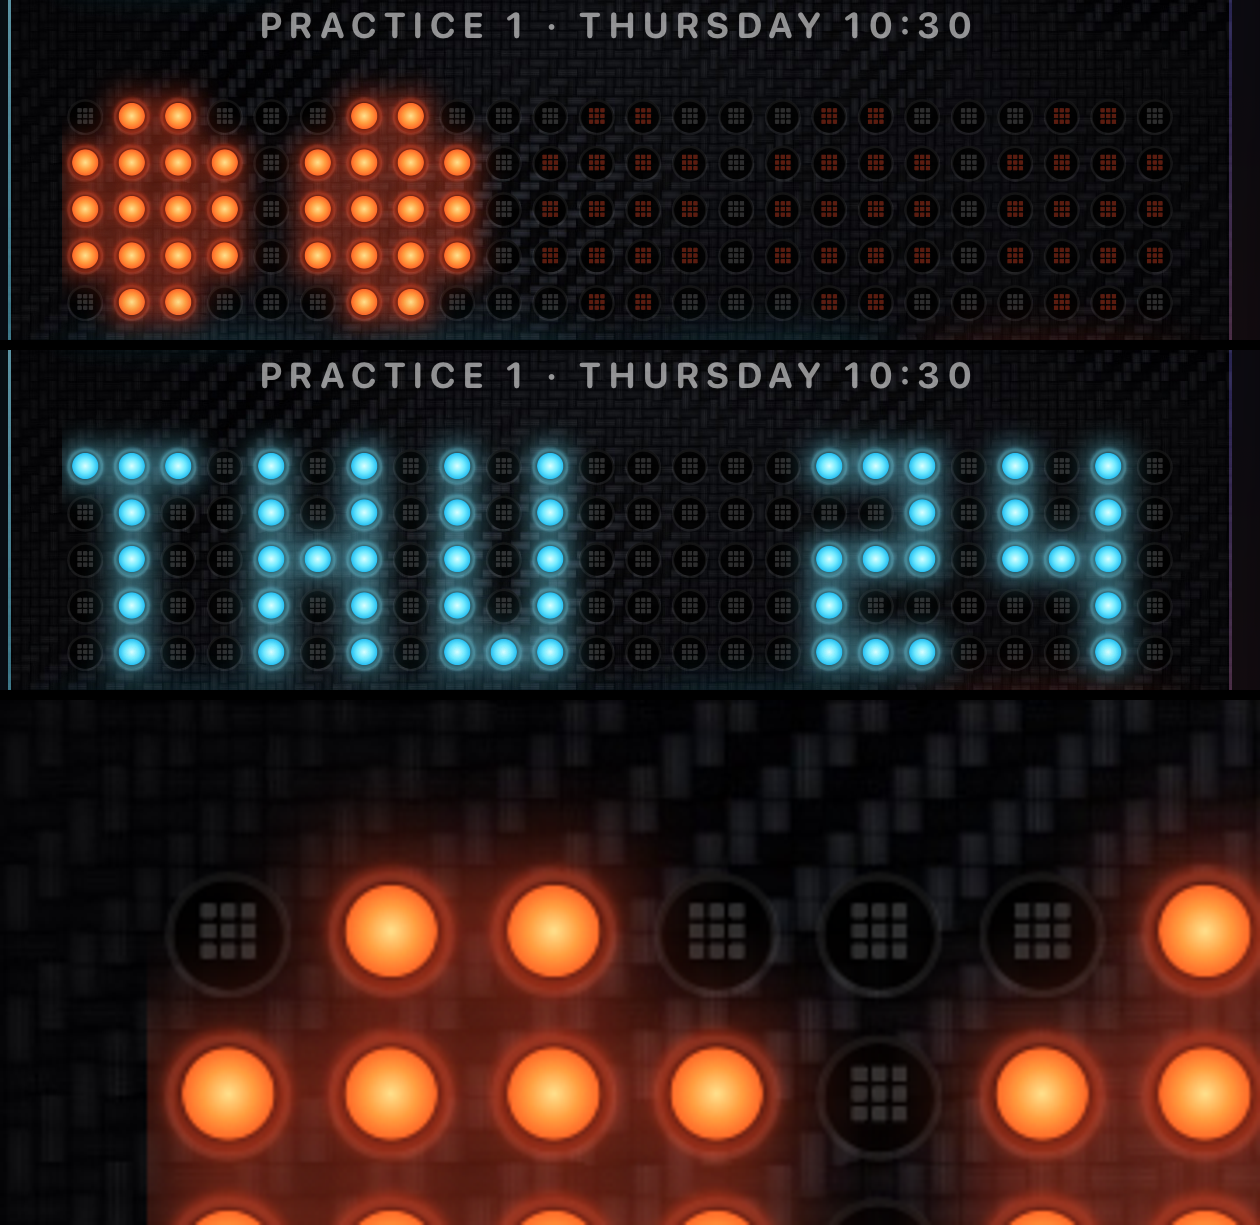
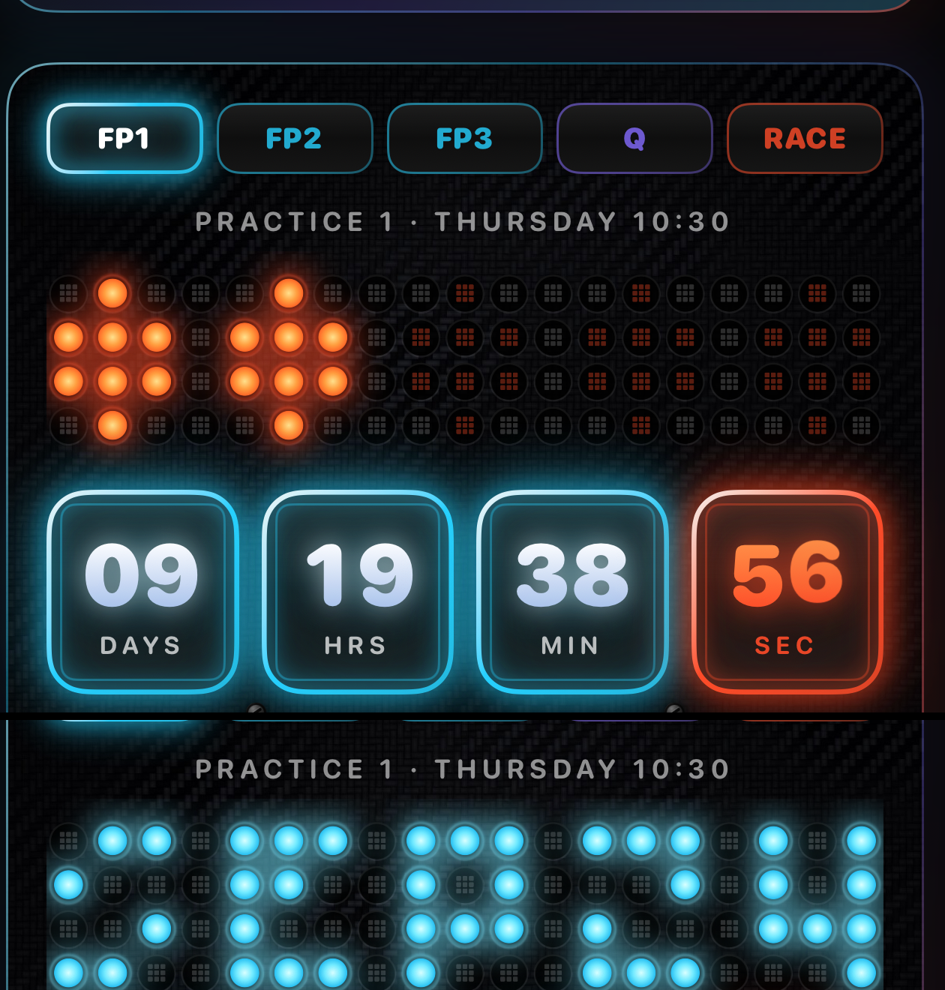
Matrix 19×4 with bigger holes and a 3×4 font; carbon darker

diff --git a/TeamRadio/Views/CockpitKit.swift b/TeamRadio/Views/CockpitKit.swift
@@ -91,7 +91,7 @@ struct NeonTile: View {
     }
 }
 
-/// The LED matrix: 24×5 sockets. At rest it shows the five start lights
+/// The LED matrix: 19×4 sockets. At rest it shows the five start lights
 /// (rounded blocks, lit from the left through race week). Tap it and it
 /// scrambles like a sci-fi readout, resolves to the next info page (session
 /// time, date, days to go, round) in cyan, then falls back to the lights.
@@ -106,47 +106,46 @@ struct DotMatrixBoard: View {
     @State private var transitionStart: Date?
     @State private var settle: Task<Void, Never>?
 
-    private static let cols = 24, rows = 5
+    private static let cols = 19, rows = 4
     private static let scramble: TimeInterval = 0.9
     private static let hold: TimeInterval = 5
 
-    // 3 columns × 5 rows, top row first
+    // 3 columns × 4 rows, top row first
     private static let glyphs: [Character: String] = [
-        "0": "####.##.##.####", "1": ".#.##..#..#.###", "2": "###..#####..###", "3": "###..####..####",
-        "4": "#.##.####..#..#", "5": "####..###..####", "6": "####..####.####", "7": "###..#..#..#..#",
-        "8": "####.#####.####", "9": "####.####..####",
-        "A": "####.#####.##.#", "B": "##.#.###.#.###.", "C": "####..#..#..###", "D": "##.#.##.##.###.",
-        "E": "####..####..###", "F": "####..####..#..", "G": "####..#.##.####", "H": "#.##.#####.##.#",
-        "I": "###.#..#..#.###", "J": "..#..#..##.####", "K": "#.##.###.#.##.#", "L": "#..#..#..#..###",
-        "M": "#.########.##.#", "N": "##.#.##.##.##.#", "O": "####.##.##.####", "P": "####.#####..#..",
-        "Q": "####.##.####..#", "R": "####.###.#.##.#", "S": "####..###..####", "T": "###.#..#..#..#.",
-        "U": "#.##.##.##.####", "V": "#.##.##.##.#.#.", "W": "#.##.########.#", "X": "#.##.#.#.#.##.#",
-        "Y": "#.##.####.#..#.", "Z": "###..#.#.#..###", ":": "....#.....#....", "-": "......###......",
-        ".": "............#..", "/": "..#..#.#.#..#..", " ": "...............",
+        "0": "####.##.####", "1": ".#.##..#.###", "2": "###..##..###", "3": "###.##..####",
+        "4": "#.##.####..#", "5": "#####...####", "6": "#..####.####", "7": "###..#.#..#.",
+        "8": "#######.####", "9": "####.####..#", "A": ".#.#.#####.#", "B": "##.####.###.",
+        "C": "####..#..###", "D": "##.#.##.###.", "E": "#####.#..###", "F": "#####.#..#..",
+        "G": "##.#..#.####", "H": "#.#####.##.#", "I": "###.#..#.###", "J": "..#..##.####",
+        "K": "#.###.#.##.#", "L": "#..#..#..###", "M": "#.#####.##.#", "N": "##.#.##.##.#",
+        "O": "####.##.####", "P": "####.#####..", "Q": "####.####..#", "R": "##.#.###.#.#",
+        "S": ".###....###.", "T": "###.#..#..#.", "U": "#.##.##.####", "V": "#.##.##.#.#.",
+        "W": "#.##.#####.#", "X": "#.#.#..#.#.#", "Y": "#.#.#..#..#.", "Z": "###..##..###",
+        ":": "....#.....#.", "-": "...###......", ".": "..........#.", " ": "............",
     ]
 
     /// Cells lit by the current page: key row*1000+col → 1 (lit) or 0 (armed/dim).
     private func target(for page: Int) -> [Int: Double] {
         var cells: [Int: Double] = [:]
         if page == 0 {
-            // five rounded 4×5 blocks, one dark column between
+            // five rounded 3×4 blocks, one dark column between
             for c in 0..<5 {
-                let c0 = c * 5
-                for dc in 0..<4 {
-                    for dr in 0..<5 {
-                        let corner = (dc == 0 || dc == 3) && (dr == 0 || dr == 4)
+                let c0 = c * 4
+                for dc in 0..<3 {
+                    for dr in 0..<4 {
+                        let corner = dc != 1 && (dr == 0 || dr == 3)
                         guard !corner else { continue }
                         cells[dr * 1000 + c0 + dc] = c < litLights ? 1 : 0
                     }
                 }
             }
         } else {
-            let text = Array(pages[page - 1].uppercased().prefix(6))
+            let text = Array(pages[page - 1].uppercased().prefix(5))
             let width = text.count * 4 - 1
             var col = max(0, (Self.cols - width) / 2)
             for ch in text {
                 let bits = Array(Self.glyphs[ch] ?? Self.glyphs[" "]!)
-                for row in 0..<5 {
+                for row in 0..<4 {
                     for k in 0..<3 where bits[row * 3 + k] == "#" && col + k < Self.cols {
                         cells[row * 1000 + col + k] = 1
                     }
@@ -195,7 +194,7 @@ struct DotMatrixBoard: View {
                 let cols = Self.cols, rows = Self.rows
                 let pitch = size.width / CGFloat(cols)
                 let top = (size.height - CGFloat(rows) * pitch) / 2
-                let hole = pitch * 0.36
+                let hole = pitch * 0.42
                 let die = hole * 0.26            // side of one grey square in an unlit socket
                 let dieStep = hole * 0.34
 

diff --git a/TeamRadio/Views/CountdownView.swift b/TeamRadio/Views/CountdownView.swift
@@ -157,9 +157,9 @@ struct CountdownView: View {
         let hours = (Int(remaining) % 86400) / 3600
         return [
             session.date.formatted(.dateTime.hour(.twoDigits(amPM: .omitted)).minute()),
-            session.date.formatted(.dateTime.weekday(.abbreviated).day()).uppercased(),
-            days > 0 ? "\(days) DAYS" : "\(hours) HRS",
-            "RND \(race.round)",
+            session.date.formatted(.dateTime.day().month(.abbreviated)).uppercased().replacingOccurrences(of: " ", with: ""),
+            days > 0 ? "\(days)DAYS" : "\(hours)HRS",
+            "RND\(race.round)",
         ]
     }
 
